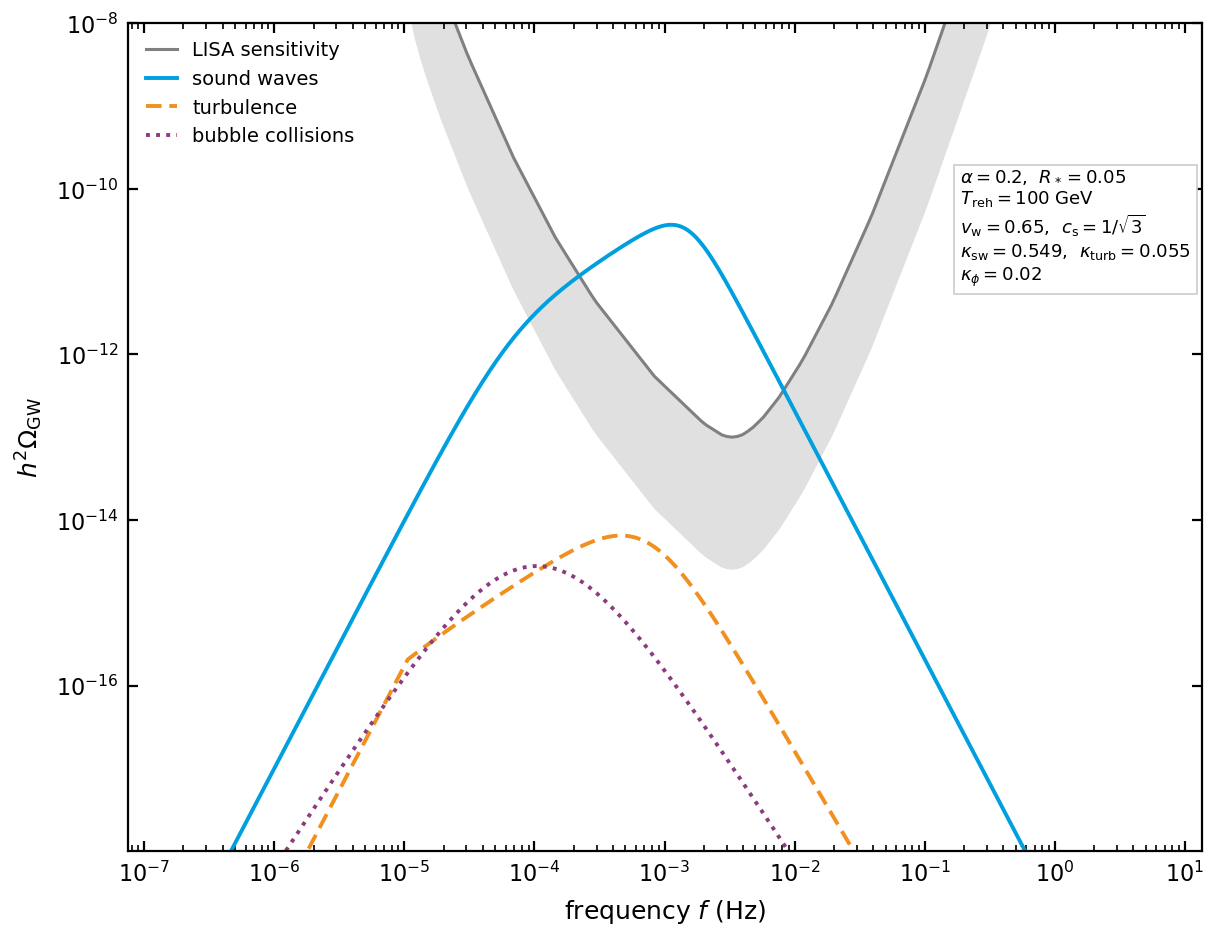
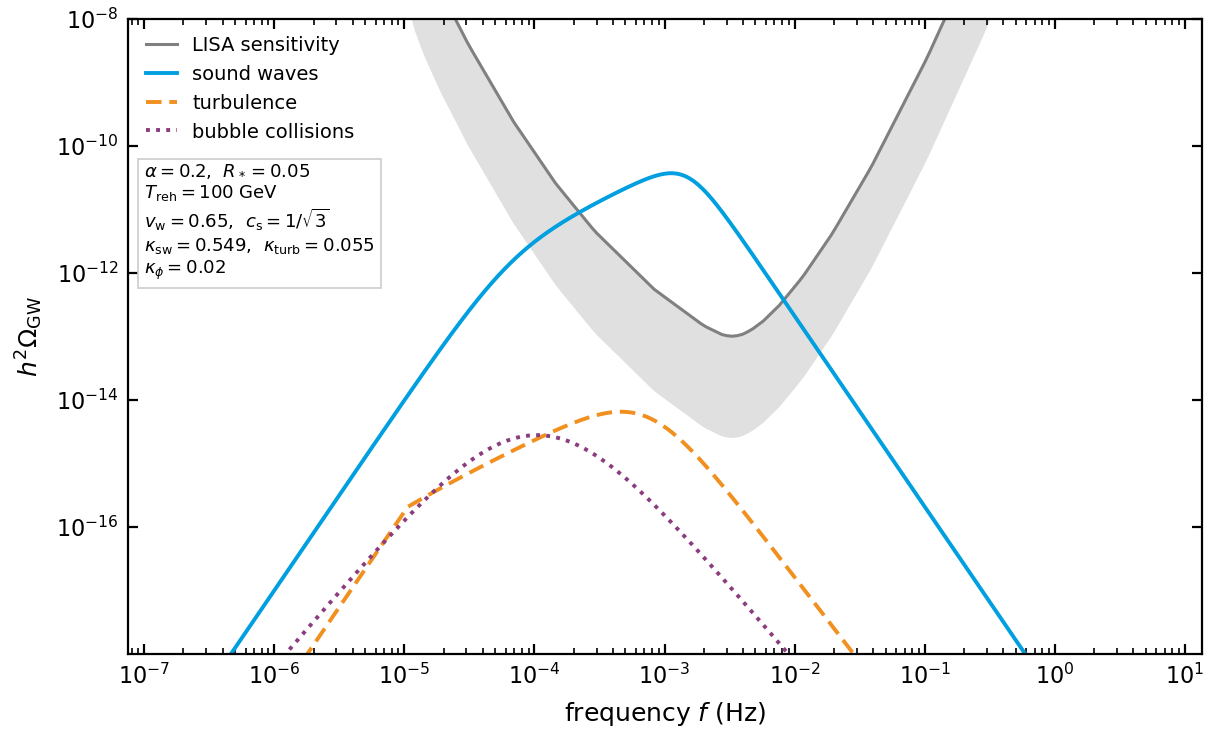
Give the spectrum figure the gallery's proportions and hold every single panel to them

diff --git a/docs/make_algorithm_figures.py b/docs/make_algorithm_figures.py
@@ -697,7 +697,9 @@ def figure_spectrum_sources() -> None:
              ("Wall collisions", "bubble collisions", DESYaubergine, (0, (1, 1.6)))]
 
     use_house_style()
-    fig, ax = plt.subplots(figsize=(WIDTH, 0.78 * WIDTH))
+    # The same aspect as the other single-panel figures of this gallery. At 0.78 the panel
+    # was almost square, which no other figure here is.
+    fig, ax = plt.subplots(figsize=(WIDTH, 0.62 * WIDTH))
 
     # The shipped LISA power-law-integrated sensitivity, at the threshold and observation time
     # the package stores with it. A spectrum above this curve is detectable.
@@ -746,12 +748,12 @@ def figure_spectrum_sources() -> None:
     # panel says directly.
     ax.legend(frameon=False, loc="upper left", fontsize=7, handlelength=1.6)
     # The parameters are inside the panel, in a box of their own: they are what the three
-    # curves were computed from, so they are read with them. The box is against the right
-    # spine, two thirds of the way up, which is where a scan of the rendered panel for an
-    # empty rectangle of its size puts it. The corner above it is not free: at an upper
-    # limit of 1e-8 the high-frequency arm of the sensitivity curve and its band cross the
-    # top edge at 0.5 Hz.
-    ax.text(0.99, 0.68,
+    # curves were computed from, so they are read with them. The box sits under the legend,
+    # left of the sensitivity band, which is where a scan of the rendered panel for an empty
+    # rectangle of its size puts it. The two right-hand corners are not free: at an upper
+    # limit of 1e-8 the arms of the sensitivity curve and its band cross the top edge at
+    # 0.5 Hz, and the sound-wave curve leaves through the bottom edge at 0.6 Hz.
+    ax.text(0.015, 0.775,
             "\n".join([
                 r"$\alpha = 0.2$,  $R_* = 0.05$",
                 r"$T_\mathrm{reh} = 100$ GeV",
@@ -759,11 +761,11 @@ def figure_spectrum_sources() -> None:
                 r"$\kappa_\mathrm{sw} = %.3f$,  $\kappa_\mathrm{turb} = %.3f$"
                 % (k_sw, 0.1 * k_sw),
                 r"$\kappa_\phi = 0.02$"]),
-            transform=ax.transAxes, fontsize=6.5, ha="right", va="bottom",
+            transform=ax.transAxes, fontsize=6.5, ha="left", va="top",
             multialignment="left",
             bbox=dict(boxstyle="square,pad=0.35", facecolor="white", edgecolor="0.8",
                       linewidth=0.6))
-    fig.subplots_adjust(left=0.105, right=0.985, bottom=0.105, top=0.975)
+    fig.subplots_adjust(left=0.105, right=0.985, bottom=0.135, top=0.975)
     _check(fig, "algorithm_spectrum_sources")
     fig.savefig(OUT / "algorithm_spectrum_sources.png", dpi=200)
     plt.close(fig)
@@ -821,14 +823,26 @@ def figure_potential_2d() -> None:
 
 
 def main() -> int:
-    figure_shooting()
-    figure_rate_and_support()
-    figure_images()
-    figure_potential_vs_temperature()
-    figure_plasma_dof()
-    figure_fluid_profiles()
-    figure_spectrum_sources()
-    figure_potential_2d()
+    """Draw every figure, or only the ones named on the command line."""
+    import sys
+
+    builders = {
+        "shooting": figure_shooting,
+        "rate_and_support": figure_rate_and_support,
+        "images": figure_images,
+        "potential_vs_temperature": figure_potential_vs_temperature,
+        "plasma_dof": figure_plasma_dof,
+        "fluid_profiles": figure_fluid_profiles,
+        "spectrum_sources": figure_spectrum_sources,
+        "potential_2d": figure_potential_2d,
+    }
+    wanted = sys.argv[1:] or list(builders)
+    unknown = [name for name in wanted if name not in builders]
+    if unknown:
+        raise SystemExit("unknown figure(s): %s\nknown: %s"
+                         % (", ".join(unknown), ", ".join(builders)))
+    for name in wanted:
+        builders[name]()
     return 0
 
 

diff --git a/docs/check_figure_style.py b/docs/check_figure_style.py
@@ -357,7 +357,11 @@ def check_with_paper_style(fig, name: str = "figure") -> list[str]:
 #: How tall a figure may be, as a multiple of its width, for one row of panels. A single
 #: panel near square reads as a mistake on a page of running text. Each further row adds the
 #: same allowance again.
-MAX_ASPECT_PER_ROW = 0.80
+#: A panel of this gallery is between 0.52 and 0.62 times as tall as it is wide. One that is
+#: nearly square reads as a different kind of object on the page, which is what a reader
+#: notices first, so the allowance sits just above the widest of them rather than at a value
+#: no figure here needs.
+MAX_ASPECT_PER_ROW = 0.68
 
 #: The width a figure in the documentation must have, in pixels. Width and not the shorter
 #: side: every figure is shown at the width of the text column, so a wide short one is not
